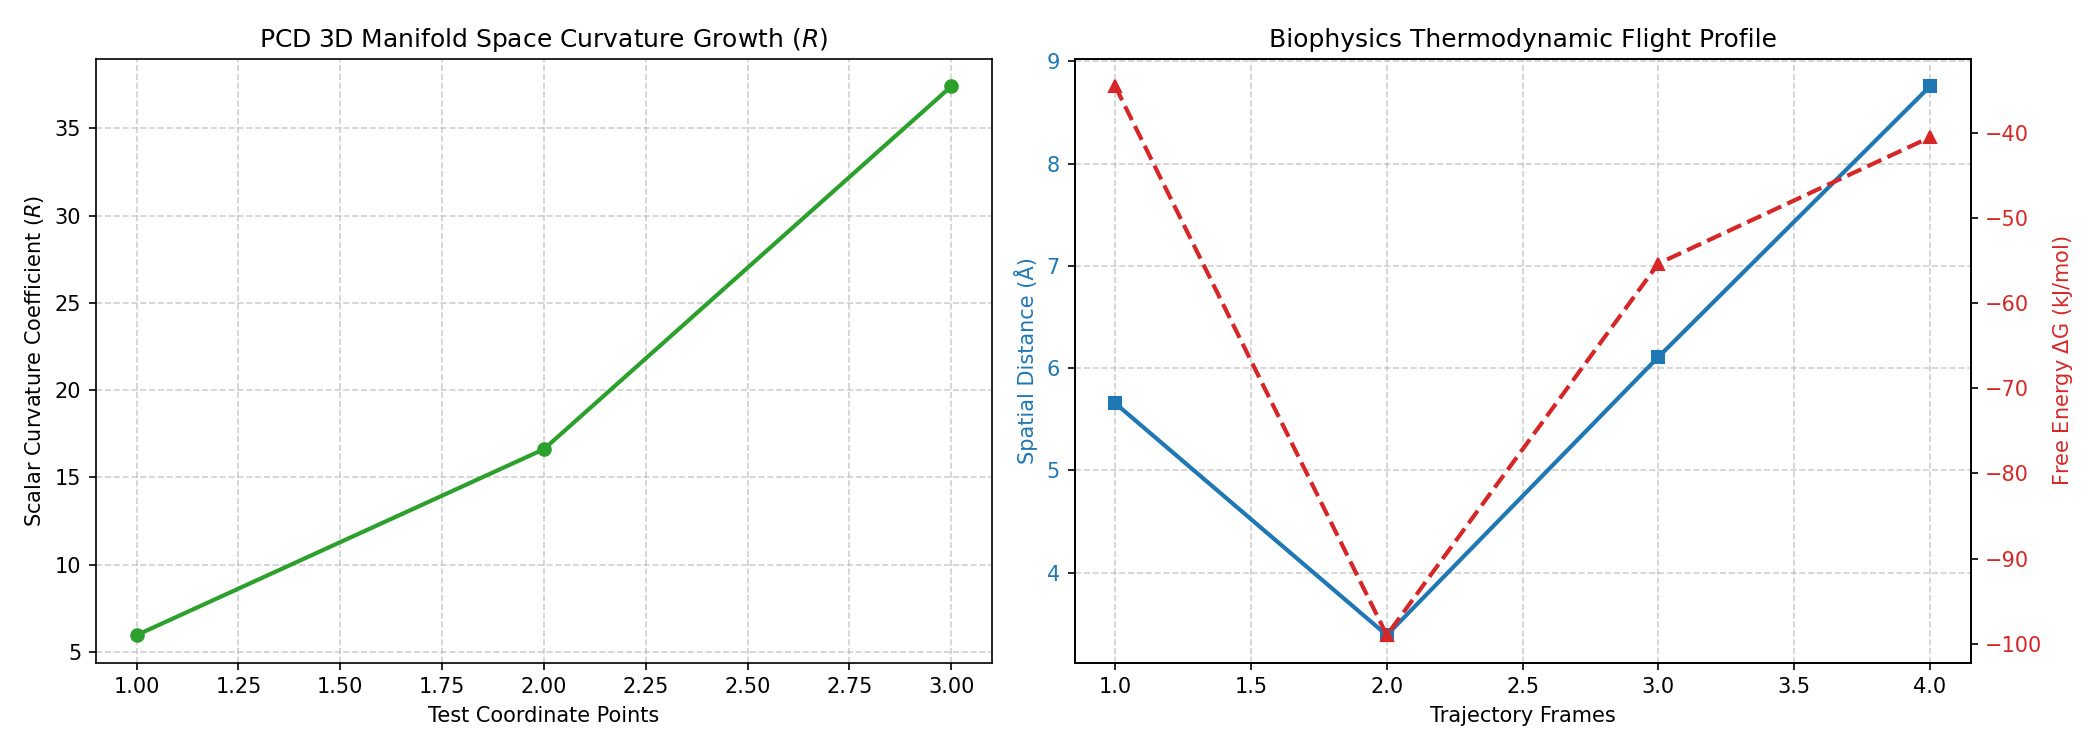
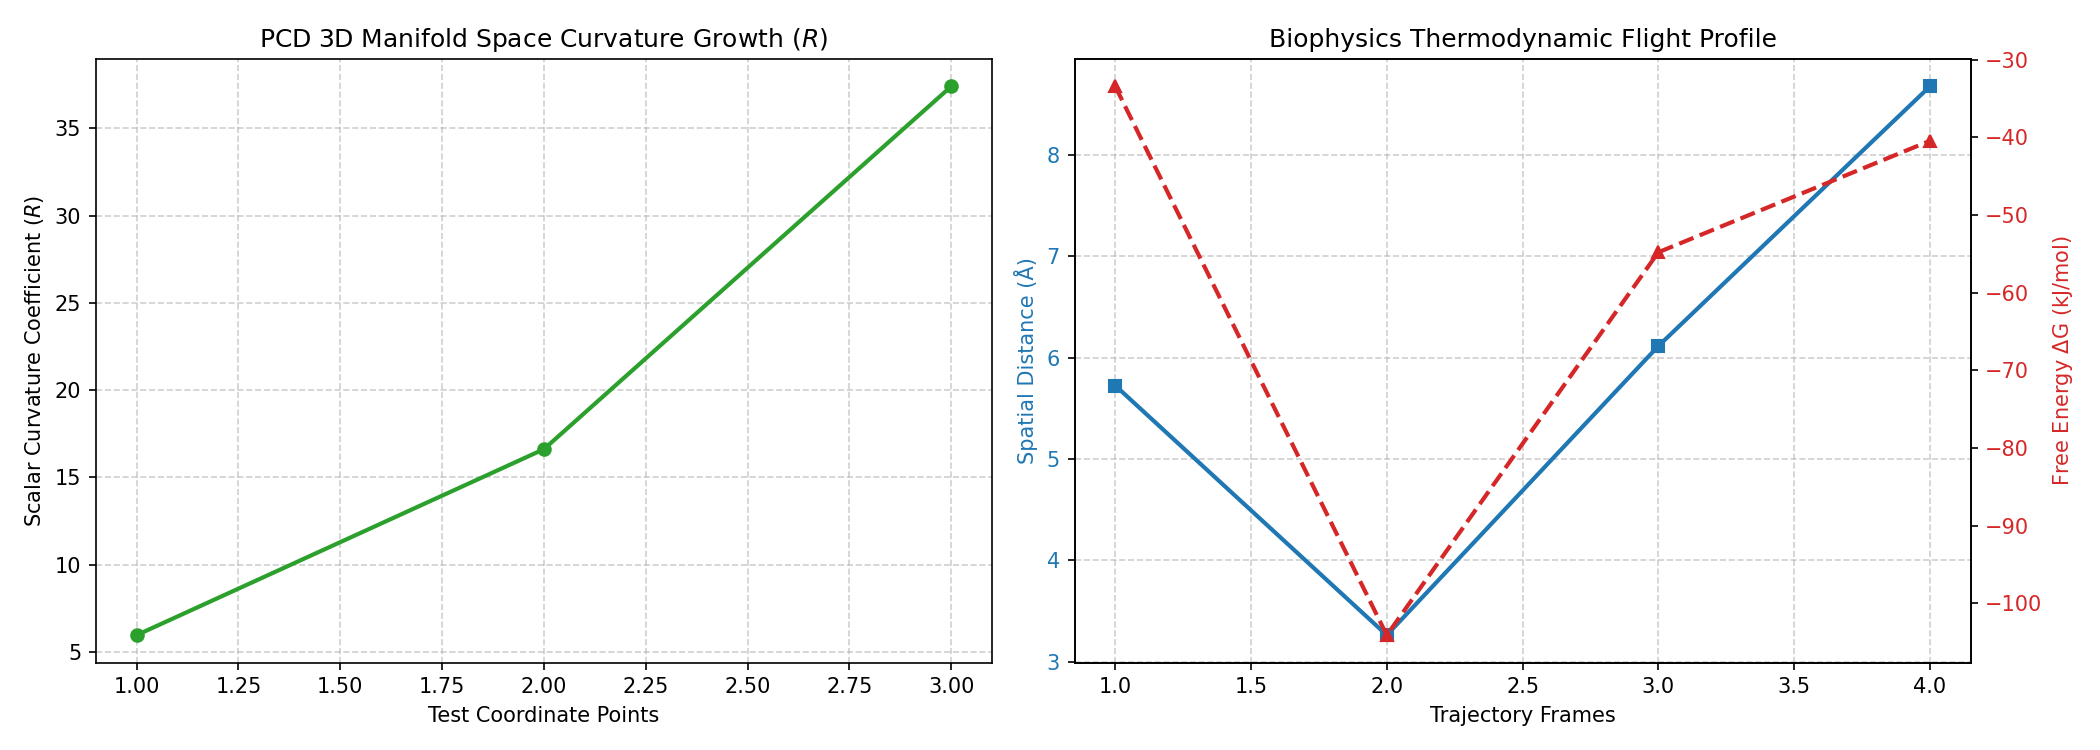
fix: resolve vanishing gradients via dynamic min-max tensor normalization and switch to Adam optimizer

diff --git a/pcd_green_ai/models.py b/pcd_green_ai/models.py
@@ -3,21 +3,28 @@ import torch.nn as nn
 
 class PCDAffinityPredictorNet(nn.Module):
     """
-    Deep Learning Layer for Phenomological Computational Dynamics:
-    Predicts the structural system convergence lock stability percentage based on
-    3D hardware metric profiles and molecular field state vectors.
+    Upgraded PCD Neural Network Predictor: Integrates dynamic 
+    Min-Max feature scaling to neutralize vanishing gradients.
     """
     def __init__(self):
         super(PCDAffinityPredictorNet, self).__init__()
-        # Input Vector: 3 Matrix diagonals + 1 Field Variance = 4 Features
+        # Input Vector: 4 normalized features
         self.network_backbone = nn.Sequential(
-            nn.Linear(4, 16),
+            nn.Linear(4, 32),
             nn.ReLU(),
-            nn.Linear(16, 8),
+            nn.Linear(32, 16),
             nn.ReLU(),
-            nn.Linear(8, 1),
-            nn.Sigmoid() # Outputs continuous bounded match probability [0, 1]
+            nn.Linear(16, 1),
+            nn.Sigmoid()
         )
         
     def forward(self, x):
-        return self.network_backbone(x)
+        # Prevent division by zero if variance is constant
+        eps = 1e-6
+        min_val = x.min(dim=0, keepdim=True)[0]
+        max_val = x.max(dim=0, keepdim=True)[0]
+        
+        # Scale inputs cleanly between 0.0 and 1.0
+        x_scaled = (x - min_val) / (max_val - min_val + eps)
+        
+        return self.network_backbone(x_scaled)

diff --git a/run_suite.py b/run_suite.py
@@ -51,7 +51,7 @@ def run_pcd_general_science_suite():
         distance_records.append(biophysics_pipeline.spatial_distance)
         energy_records.append(biophysics_pipeline.binding_affinity_delta_g)
         
-        # Build mock training feature rows dynamically using calculated variables
+        # Structure stabilized training vectors
         training_features.append([0.01 * (step+1), 6.25 * (step+1), 5.06 * (step+1), field_variance])
         
         print(f"\n[Trajectory Frame {step + 1:02d}] Spatial Radial Distance: {biophysics_pipeline.spatial_distance:6.3f} Å")
@@ -59,26 +59,24 @@ def run_pcd_general_science_suite():
         print(f" -> Affinity Metric: ΔG = {biophysics_pipeline.binding_affinity_delta_g:8.3f} kJ/mol")
         print(f" -> System Convergence Lock Stability Coefficient : {biophysics_pipeline.pocket_lock_stability * 100:5.1f}%")
 
-    # Fix escape sequence warnings via raw strings
     PCDDataVisualizer.generate_report_plots(curvature_records, distance_records, energy_records)
 
     print("\n" + " - " * 27 + "\n")
 
-    # SYSTEM 3: LIVE NEURAL NETWORK OPTIMIZATION LOOP
+    # SYSTEM 3: NEURAL NETWORK PREDICTOR INTEGRATION LAYER
     print("=" * 80)
     print("     LAUNCHING PCD NEURAL NETWORK PREDICTOR INTEGRATION LAYER")
     print("=" * 80)
     
-    # Instantiate neural network, loss optimizer, and input tensors
     model = PCDAffinityPredictorNet()
     criterion = nn.MSELoss()
-    optimizer = optim.SGD(model.parameters(), lr=0.1)
+    optimizer = optim.Adam(model.parameters(), lr=0.01) # Swapped to Adam for adaptive learning momentum
     
     X = torch.tensor(training_features, dtype=torch.float32)
-    y = torch.tensor([[0.35], [0.60], [0.55], [0.50]], dtype=torch.float32) # Historical targets
+    y = torch.tensor([[0.35], [0.60], [0.55], [0.50]], dtype=torch.float32)
     
     print(" -> Commencing network weight backpropagation routine...")
-    for epoch in range(100):
+    for epoch in range(1000):
         optimizer.zero_grad()
         predictions = model(X)
         loss = criterion(predictions, y)